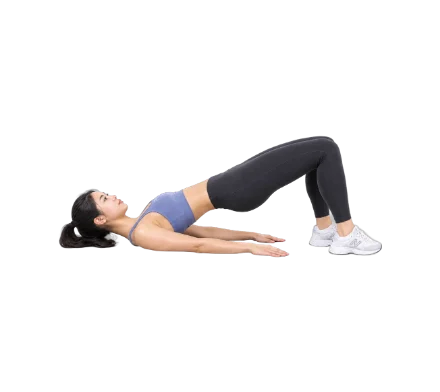
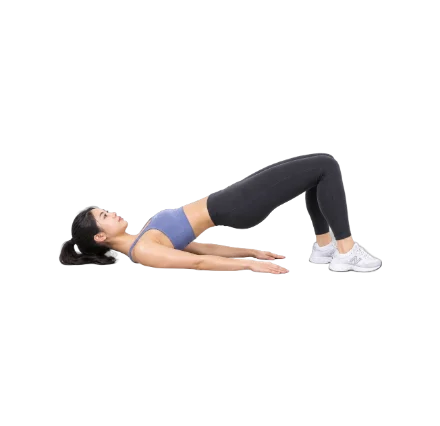
한 발 서기를 첫 번째 운동으로 추가 (40초)
- 받은 사진에 알파 채널이 없고 체커보드가 픽셀로 그려져 있어 직접 배경 제거.
  흰 운동화가 흰 체커 칸과 섞여 같이 지워지는 문제가 있어, 단순 색상 판정 대신
  "배경은 어느 창에서든 두 회색이 모두 섞여 나온다"는 성질로 판별하고
  확실한 배경에서만 피사체 쪽으로 제한 거리까지 확장하는 방식을 씀
- 썸네일 네 장의 얼굴 크기를 다시 맞춤 (머리 길이 119px 기준, 공통 캔버스 440x426)

- 루틴 생성을 EXERCISES 배열 순회 방식으로 일반화해 운동 개수에 자동으로 따라가도록 변경
- 홈 카드 높이를 운동 개수에 맞춰 계산하도록 수정.
  기존에는 높이가 고정이라 네 번째 카드가 하단 영역을 덮었음
- 좁은 화면에서는 카드가 줄어들도록 해 어떤 크기에서도 겹치지 않게 함

총 운동 시간 8분 25초 -> 10분 55초

Claude-Session: https://claude.ai/code/session_01VAsmy4W6XrH66spYPZrFX9

diff --git a/app.js b/app.js
@@ -7,14 +7,14 @@
 /* ---------- config ---------- */
 const STORE_KEY = 'runner-strength-v1';
 const DEFAULTS = {
-  wallSit: 40, hipBridge: 40, legRaise: 20, switchTime: 5,
+  singleLeg: 40, wallSit: 40, hipBridge: 40, legRaise: 20, switchTime: 5,
   restEx: 10, restSet: 30, sets: 3, prep: 10,
   bell: 5, beep: true, voice: true, vibe: true, silentBell: true, sayCount: true,
   theme: 'system',
 };
 const THEMES = ['system', 'light', 'dark'];
 const LIMITS = {
-  wallSit:[5,300], hipBridge:[5,300], legRaise:[5,300], switchTime:[0,60],
+  singleLeg:[5,300], wallSit:[5,300], hipBridge:[5,300], legRaise:[5,300], switchTime:[0,60],
   restEx:[0,300], restSet:[0,600], sets:[1,10], prep:[0,60], bell:[0,10],
 };
 
@@ -42,9 +42,10 @@ function clamp(key, v){
 
 /* ---------- exercise photos ---------- */
 const FIG = {
-  wallSit:   { src:'img/wall-sit.webp',       w:534, h:960, sm:'img/wall-sit-sm.webp',       smW:440, smH:392 },
-  hipBridge: { src:'img/hip-bridge.webp',     w:960, h:365, sm:'img/hip-bridge-sm.webp',     smW:440, smH:392 },
-  legRaise:  { src:'img/side-leg-raise.webp', w:960, h:361, sm:'img/side-leg-raise-sm.webp', smW:440, smH:392 },
+  singleLeg: { src:'img/single-leg.webp',      w:354, h:960, sm:'img/single-leg-sm.webp',     smW:440, smH:426 },
+  wallSit:   { src:'img/wall-sit.webp',       w:534, h:960, sm:'img/wall-sit-sm.webp',       smW:440, smH:426 },
+  hipBridge: { src:'img/hip-bridge.webp',     w:960, h:365, sm:'img/hip-bridge-sm.webp',     smW:440, smH:426 },
+  legRaise:  { src:'img/side-leg-raise.webp', w:960, h:361, sm:'img/side-leg-raise-sm.webp', smW:440, smH:426 },
 };
 // the leg-raise photo shows the left leg lifted; mirror it for the right side
 function shot(key, alt, opt){
@@ -65,6 +66,7 @@ function preloadShots(){
 
 /* ---------- exercises ---------- */
 const EXERCISES = [
+  { id:'singleLeg', ko:'한 발 서기',        en:'Single Leg Stand', say:'한 발 서기',        desc:'균형·발목 안정',      fig:'singleLeg' },
   { id:'wallSit',   ko:'월 싯',            en:'Wall Sit',        say:'월싯',              desc:'허벅지 앞·코어',      fig:'wallSit'   },
   { id:'hipBridge', ko:'힙 브릿지',         en:'Hip Bridge',      say:'힙 브릿지',          desc:'둔근·햄스트링',      fig:'hipBridge' },
   { id:'legRaise',  ko:'사이드 레그 레이즈', en:'Side Leg Raise',  say:'사이드 레그 레이즈', desc:'중둔근 (양쪽)',      fig:'legRaise', perSide:true, shotSide:'왼쪽' },
@@ -74,28 +76,29 @@ const byId = id => EXERCISES.find(e => e.id === id);
 /* ---------- plan builder ---------- */
 function buildPlan(c){
   const steps = [];
-  const ex = { wallSit:c.wallSit, hipBridge:c.hipBridge, legRaise:c.legRaise };
   if (c.prep > 0) steps.push({ kind:'prep', dur:c.prep, ko:'준비하세요', set:0, exIdx:0 });
 
   for (let s = 0; s < c.sets; s++){
-    const last = s === c.sets - 1;
-    // 1. wall sit
-    steps.push(work('wallSit', ex.wallSit, s, 1));
-    if (c.restEx > 0) steps.push({ kind:'rest', dur:c.restEx, ko:'휴식', set:s, exIdx:1 });
-    // 2. hip bridge
-    steps.push(work('hipBridge', ex.hipBridge, s, 2));
-    if (c.restEx > 0) steps.push({ kind:'rest', dur:c.restEx, ko:'휴식', set:s, exIdx:2 });
-    // 3. side leg raise (both sides)
-    steps.push(work('legRaise', ex.legRaise, s, 3, '오른쪽'));
-    if (c.switchTime > 0) steps.push({ kind:'switch', dur:c.switchTime, ko:'다리 바꾸기', set:s, exIdx:3 });
-    steps.push(work('legRaise', ex.legRaise, s, 3, '왼쪽'));
-    if (!last && c.restSet > 0) steps.push({ kind:'setrest', dur:c.restSet, ko:'세트 휴식', set:s, exIdx:3 });
+    EXERCISES.forEach((e, idx) => {
+      const exIdx = idx + 1, dur = c[e.id];
+      if (e.perSide){
+        steps.push(work(e, dur, s, exIdx, '오른쪽'));
+        if (c.switchTime > 0) steps.push({ kind:'switch', dur:c.switchTime, ko:'다리 바꾸기', set:s, exIdx });
+        steps.push(work(e, dur, s, exIdx, '왼쪽'));
+      } else {
+        steps.push(work(e, dur, s, exIdx));
+      }
+      const lastEx = idx === EXERCISES.length - 1;
+      if (!lastEx && c.restEx > 0) steps.push({ kind:'rest', dur:c.restEx, ko:'휴식', set:s, exIdx });
+    });
+    if (s < c.sets - 1 && c.restSet > 0)
+      steps.push({ kind:'setrest', dur:c.restSet, ko:'세트 휴식', set:s, exIdx:EXERCISES.length });
   }
   return steps;
 
-  function work(id, dur, set, exIdx, side){
-    const e = byId(id);
-    return { kind:'work', id, dur, set, exIdx, side, ko:e.ko, en:e.en, say:e.say, fig:e.fig, shotSide:e.shotSide };
+  function work(e, dur, set, exIdx, side){
+    return { kind:'work', id:e.id, dur, set, exIdx, side,
+             ko:e.ko, en:e.en, say:e.say, fig:e.fig, shotSide:e.shotSide };
   }
 }
 const totalOf = steps => steps.reduce((a, s) => a + s.dur, 0);
@@ -258,6 +261,7 @@ function renderHome(){
       <div class="tm">${label}</div>
     </li>`;
   }).join('');
+  el.planList.style.setProperty('--rows', EXERCISES.length);
   el.metaSets.textContent = cfg.sets;
   el.metaTime.textContent = mmss(total).replace(/^0/, '');
   el.metaMoves.textContent = EXERCISES.length;
@@ -479,9 +483,9 @@ function show(name){
 }
 
 /* ---------- settings sheet ---------- */
-const FIELDS = ['wallSit','hipBridge','legRaise','switchTime','restEx','restSet','sets','prep','bell'];
+const FIELDS = ['singleLeg','wallSit','hipBridge','legRaise','switchTime','restEx','restSet','sets','prep','bell'];
 const FIELD_EL = {
-  wallSit:'s_wallSit', hipBridge:'s_hipBridge', legRaise:'s_legRaise', switchTime:'s_switch',
+  singleLeg:'s_singleLeg', wallSit:'s_wallSit', hipBridge:'s_hipBridge', legRaise:'s_legRaise', switchTime:'s_switch',
   restEx:'s_restEx', restSet:'s_restSet', sets:'s_sets', prep:'s_prep', bell:'s_bell',
 };
 const TOGGLES = { beep:'s_beep', voice:'s_voice', vibe:'s_vibe', sayCount:'s_sayCount', silentBell:'s_silentBell' };

diff --git a/style.css b/style.css
@@ -149,14 +149,20 @@ svg{display:block}
 .eyebrow{margin:0 0 6px;font-size:11px;letter-spacing:.18em;font-weight:800;color:var(--accent)}
 #home h1{margin:0;font-size:34px;line-height:1.15;letter-spacing:-.02em;font-weight:850}
 .home-body{flex:1 1 auto;min-height:0;display:flex;flex-direction:column;gap:12px}
-.plan-list{list-style:none;margin:0;padding:0;flex:1 1 auto;min-height:0;display:flex;flex-direction:column;justify-content:space-between;gap:10px}
+.plan-list{
+  list-style:none;margin:0;padding:0;
+  flex:1 1 auto;min-height:0;
+  display:flex;flex-direction:column;justify-content:space-between;gap:10px;
+  --rows:3;                                   /* set from JS to the exercise count */
+  --card-h:clamp(52px,calc((var(--vh,1vh) * 48 - (var(--rows) - 1) * 10px) / var(--rows)),158px);
+}
 .plan-list li{
-  flex:0 0 auto;height:clamp(74px,calc(var(--vh,1vh) * 16.5),160px);
+  flex:0 1 auto;height:var(--card-h);min-height:0;overflow:hidden;
   display:flex;align-items:center;gap:14px;
   background:var(--card);border-radius:var(--r);padding:10px 16px;
   box-shadow:var(--shadow-sm);
 }
-.plan-list .pic{flex:0 0 auto;width:clamp(78px,22vw,120px);height:clamp(52px,calc(var(--vh,1vh) * 12),124px)}
+.plan-list .pic{flex:0 0 auto;width:clamp(72px,22vw,120px);height:calc(var(--card-h) - 20px)}
 .plan-list .tx{flex:1 1 auto;min-width:0}
 .plan-list .tx b{display:block;font-size:15px;font-weight:750;letter-spacing:-.01em;word-break:keep-all}
 .plan-list .tx small{display:block;font-size:12px;color:var(--ink-2);margin-top:2px}

diff --git a/index.html b/index.html
@@ -139,6 +139,7 @@
     </div>
 
     <h3>운동 시간</h3>
+    <div class="row"><label for="s_singleLeg">한 발 서기</label><div class="stepper" data-for="s_singleLeg"><button type="button" data-d="-5">−</button><input id="s_singleLeg" type="number" inputmode="numeric" min="5" max="300" step="5"><button type="button" data-d="5">+</button><i>초</i></div></div>
     <div class="row"><label for="s_wallSit">월 싯</label><div class="stepper" data-for="s_wallSit"><button type="button" data-d="-5">−</button><input id="s_wallSit" type="number" inputmode="numeric" min="5" max="300" step="5"><button type="button" data-d="5">+</button><i>초</i></div></div>
     <div class="row"><label for="s_hipBridge">힙 브릿지</label><div class="stepper" data-for="s_hipBridge"><button type="button" data-d="-5">−</button><input id="s_hipBridge" type="number" inputmode="numeric" min="5" max="300" step="5"><button type="button" data-d="5">+</button><i>초</i></div></div>
     <div class="row"><label for="s_legRaise">사이드 레그 레이즈 <small>한쪽</small></label><div class="stepper" data-for="s_legRaise"><button type="button" data-d="-5">−</button><input id="s_legRaise" type="number" inputmode="numeric" min="5" max="300" step="5"><button type="button" data-d="5">+</button><i>초</i></div></div>

diff --git a/README.md b/README.md
@@ -9,14 +9,15 @@
 
 | 순서 | 동작 | 시간 |
 |---|---|---|
-| 1 | 월 싯 (Wall Sit) | 40초 |
-| 2 | 힙 브릿지 (Hip Bridge) | 40초 |
-| 3 | 사이드 레그 레이즈 (Side Leg Raise) | 한쪽 20초 × 좌우 (다리 교체 5초) |
+| 1 | 한 발 서기 (Single Leg Stand) | 40초 |
+| 2 | 월 싯 (Wall Sit) | 40초 |
+| 3 | 힙 브릿지 (Hip Bridge) | 40초 |
+| 4 | 사이드 레그 레이즈 (Side Leg Raise) | 한쪽 20초 × 좌우 (다리 교체 5초) |
 
 - 운동 사이 휴식 **10초**
 - 세트 사이 휴식 **30초**
 - **3세트** 반복 · 시작 전 준비 10초
-- 총 약 **8분 25초**
+- 총 약 **10분 55초**
 
 모든 숫자는 **설정**에서 바꿀 수 있고, 값은 브라우저(localStorage)에 자동 저장됩니다.
 
@@ -107,7 +108,7 @@ index.html            화면 구조 (홈 / 운동 / 완료 / 설정 시트)
 style.css             전체 스타일, 한 화면 고정 레이아웃
 app.js                루틴 생성, 타이머 엔진, 음성·벨, 설정 저장
 img/*.webp            동작 사진, 투명 배경. *-sm 은 목록·다음 카드용이며
-                      세 장의 얼굴 크기가 같아 보이도록 같은 캔버스에 맞춰 축소해 둠
+                      네 장의 얼굴 크기가 같아 보이도록 같은 캔버스에 맞춰 축소해 둠
 manifest.webmanifest  홈 화면 추가용 PWA 설정
 icon.svg, icon-*.png  아이콘
 ```
@@ -115,9 +116,12 @@ icon.svg, icon-*.png  아이콘
 사진을 바꾸려면 `img/` 안의 파일을 같은 이름으로 교체하고, `app.js` 위쪽 `FIG` 객체의
 가로·세로 픽셀값만 맞춰 주면 됩니다.
 
-`*-sm.webp`(목록·다음 카드용)는 세 사진의 얼굴이 같은 크기로 보이도록, 각 사진에서 잰
-머리 길이를 기준으로 배율을 맞춰 하나의 공통 캔버스(440×392)에 그려 넣은 것입니다.
+`*-sm.webp`(목록·다음 카드용)는 네 사진의 얼굴이 같은 크기로 보이도록, 각 사진에서 잰
+머리 길이를 기준으로 배율을 맞춰 하나의 공통 캔버스(440×426)에 그려 넣은 것입니다.
 사진을 교체하면 이 배율도 다시 계산해야 합니다.
+
+운동을 더하거나 뺄 때는 `app.js` 의 `EXERCISES` 배열에 항목을 넣고 `DEFAULTS`/`LIMITS`에
+기본 시간만 추가하면 됩니다. 루틴 생성, 진행 막대, 설정 화면은 배열 길이를 따라갑니다.
 
 운동 종류나 순서를 바꾸고 싶으면 `app.js` 위쪽의 `EXERCISES` 배열과 `buildPlan()` 함수만 고치면 됩니다.
 
